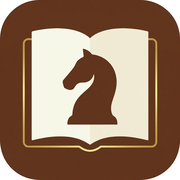
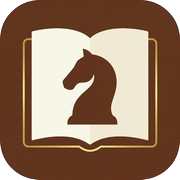
deploy: d0e4471038781161f4c9880f66cee75a31afee7d

diff --git a/sw.js b/sw.js
@@ -1,1 +1,1 @@
-if(!self.define){let e,i={};const n=(n,s)=>(n=new URL(n+".js",s).href,i[n]||new Promise(i=>{if("document"in self){const e=document.createElement("script");e.src=n,e.onload=i,document.head.appendChild(e)}else e=n,importScripts(n),i()}).then(()=>{let e=i[n];if(!e)throw new Error(`Module ${n} didn’t register its module`);return e}));self.define=(s,r)=>{const c=e||("document"in self?document.currentScript.src:"")||location.href;if(i[c])return;let o={};const d=e=>n(e,c),t={module:{uri:c},exports:o,require:d};i[c]=Promise.all(s.map(e=>t[e]||d(e))).then(e=>(r(...e),o))}}define(["./workbox-3105ea8d"],function(e){"use strict";self.skipWaiting(),e.clientsClaim(),e.precacheAndRoute([{url:"registerSW.js",revision:"9f10ca5dfad2e04deaf3164ca2cb5411"},{url:"index.html",revision:"37d11de75f103aa2462c9886bcb1afda"},{url:"assets/index-DdL8b81E.js",revision:null},{url:"assets/index-CiHm2Zpd.css",revision:null},{url:"app-logo.svg",revision:"6c64960126ce0fadc4c4433c65a0bc4c"},{url:"apple-touch-icon.png",revision:"7ebb277b5fd9798b9bfc35a8c371853d"},{url:"pwa-192x192.png",revision:"a5f61200792478b023fddbb395298dce"},{url:"pwa-512x512.png",revision:"40e006e605765555eb9bd37c0ee46790"},{url:"manifest.webmanifest",revision:"b7c92730c671a0322a5df3d92d9317ac"}],{}),e.cleanupOutdatedCaches(),e.registerRoute(new e.NavigationRoute(e.createHandlerBoundToURL("index.html")))});
+if(!self.define){let e,i={};const n=(n,s)=>(n=new URL(n+".js",s).href,i[n]||new Promise(i=>{if("document"in self){const e=document.createElement("script");e.src=n,e.onload=i,document.head.appendChild(e)}else e=n,importScripts(n),i()}).then(()=>{let e=i[n];if(!e)throw new Error(`Module ${n} didn’t register its module`);return e}));self.define=(s,r)=>{const c=e||("document"in self?document.currentScript.src:"")||location.href;if(i[c])return;let o={};const d=e=>n(e,c),t={module:{uri:c},exports:o,require:d};i[c]=Promise.all(s.map(e=>t[e]||d(e))).then(e=>(r(...e),o))}}define(["./workbox-3105ea8d"],function(e){"use strict";self.skipWaiting(),e.clientsClaim(),e.precacheAndRoute([{url:"registerSW.js",revision:"9f10ca5dfad2e04deaf3164ca2cb5411"},{url:"index.html",revision:"37d11de75f103aa2462c9886bcb1afda"},{url:"assets/index-DdL8b81E.js",revision:null},{url:"assets/index-CiHm2Zpd.css",revision:null},{url:"app-logo.svg",revision:"6c64960126ce0fadc4c4433c65a0bc4c"},{url:"apple-touch-icon.png",revision:"de3a0b4a0e7ad83ed25c371dd54ce931"},{url:"pwa-192x192.png",revision:"95db5c005184e70012515479fe5934e5"},{url:"pwa-512x512.png",revision:"0c55017f290c52f8978ea2e36eed1496"},{url:"manifest.webmanifest",revision:"b7c92730c671a0322a5df3d92d9317ac"}],{}),e.cleanupOutdatedCaches(),e.registerRoute(new e.NavigationRoute(e.createHandlerBoundToURL("index.html")))});
